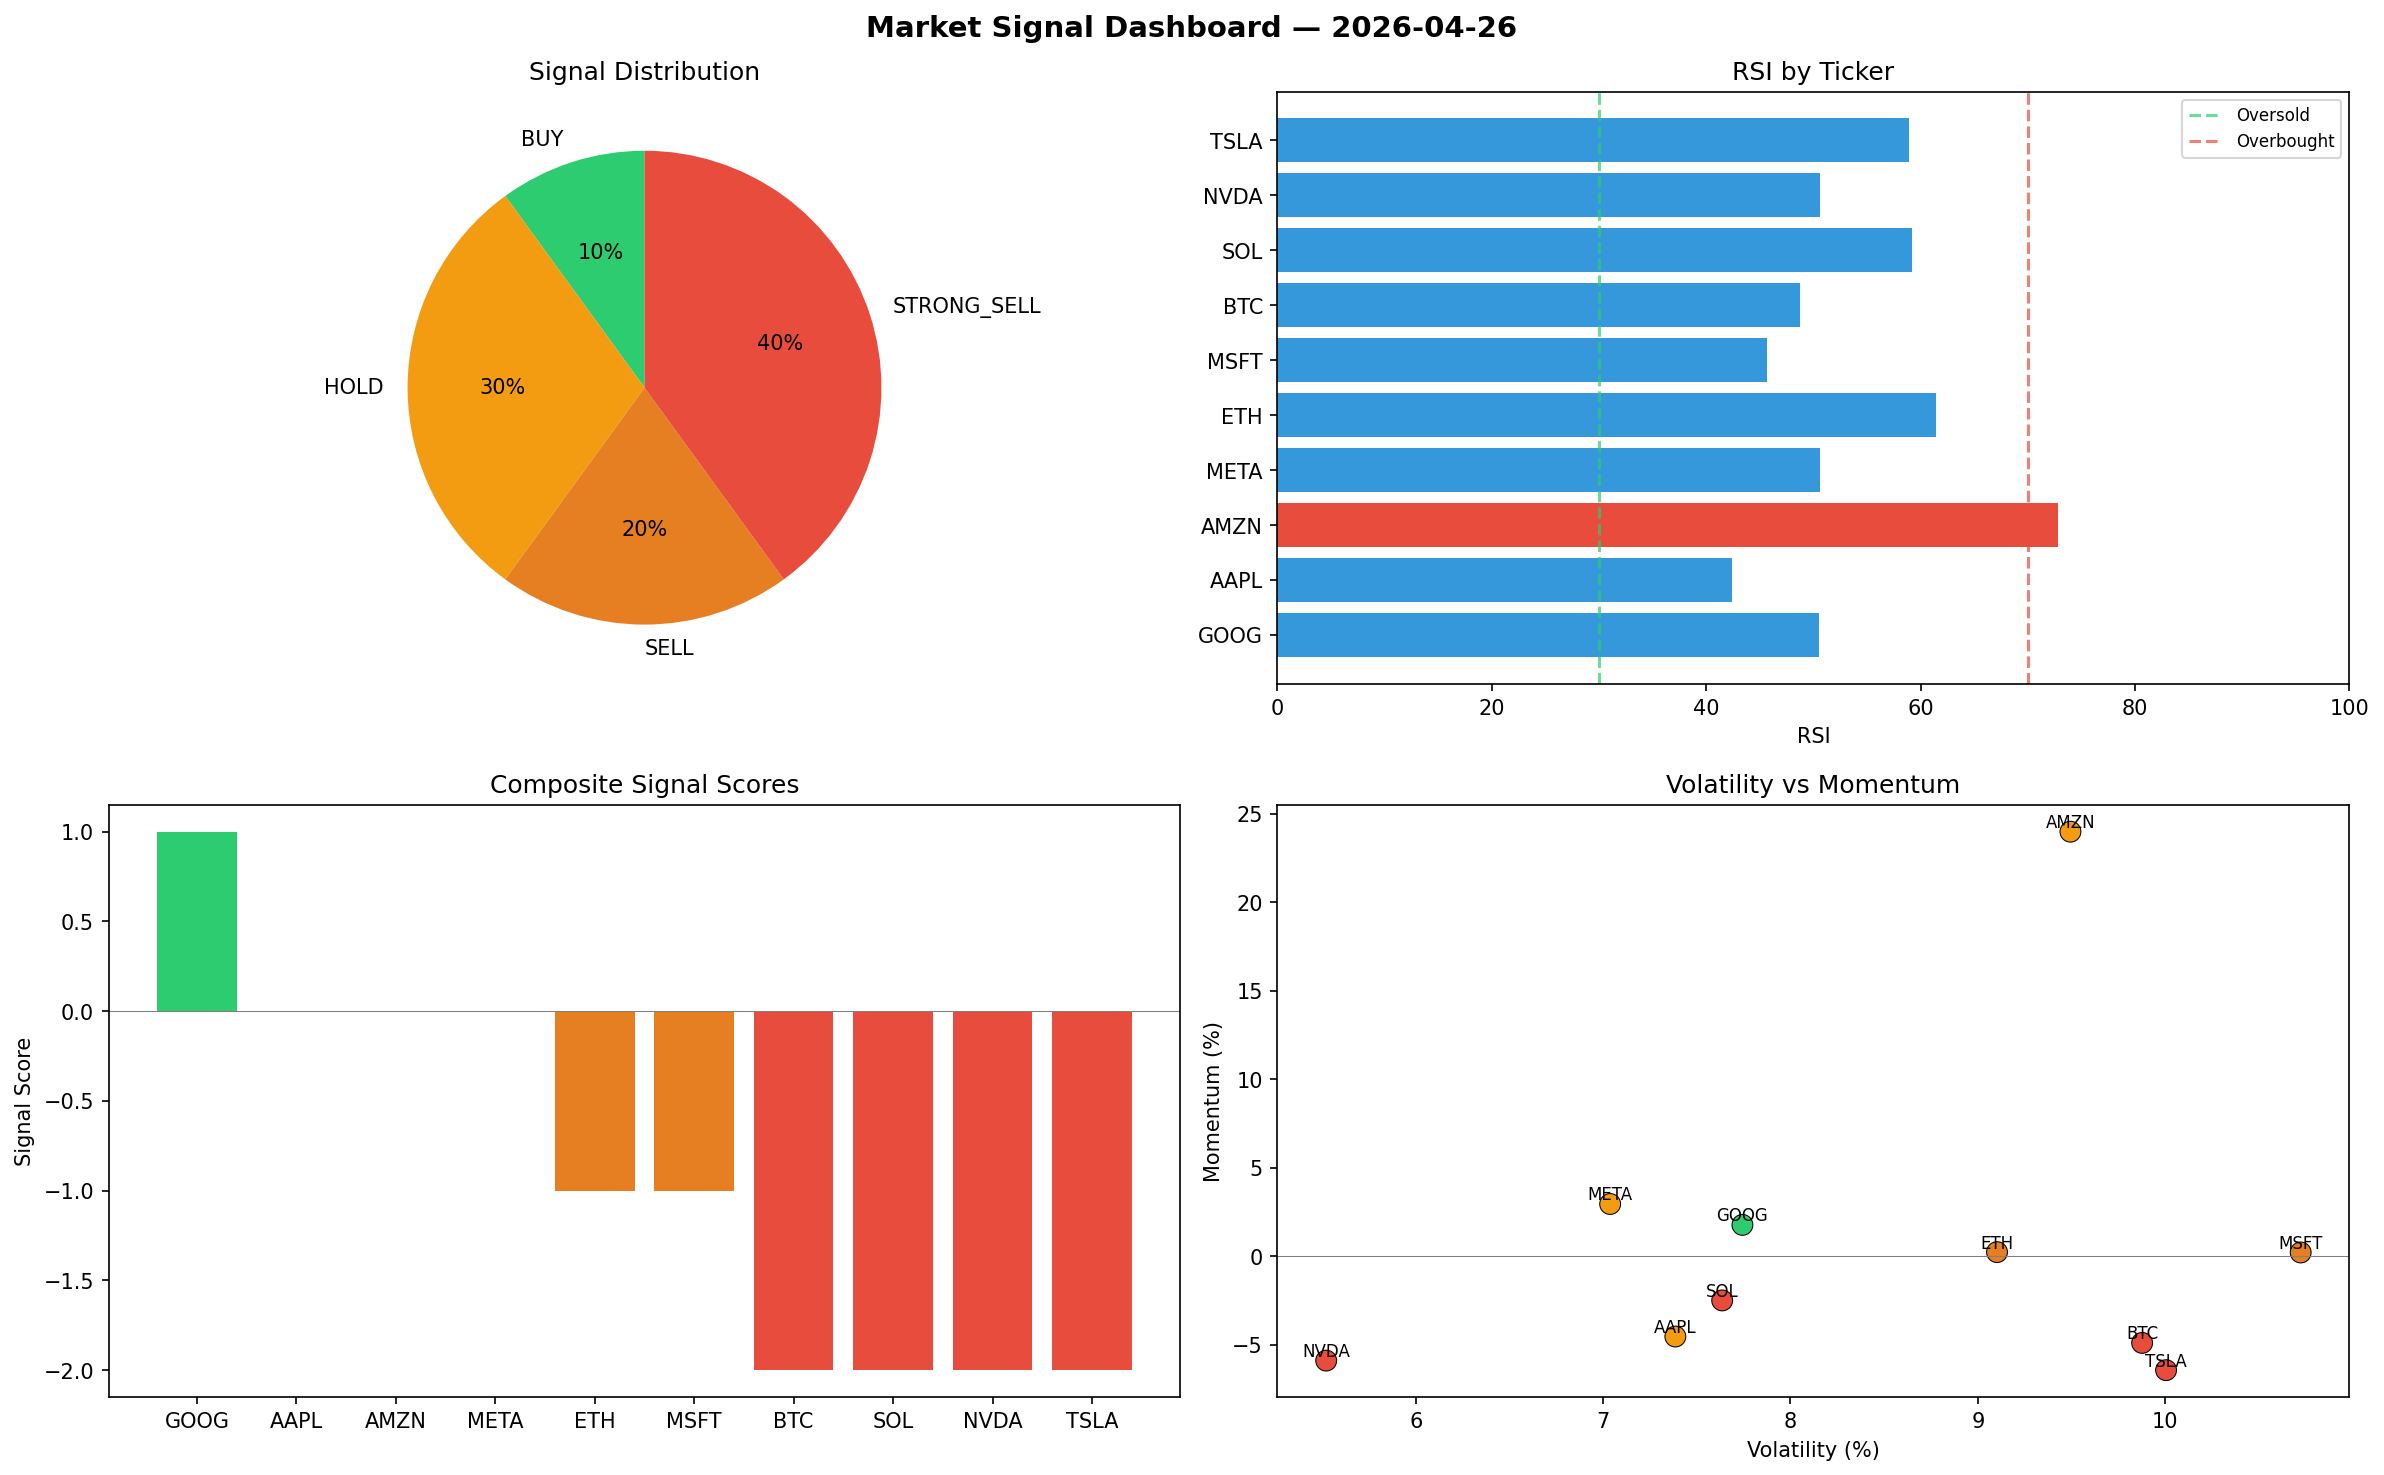
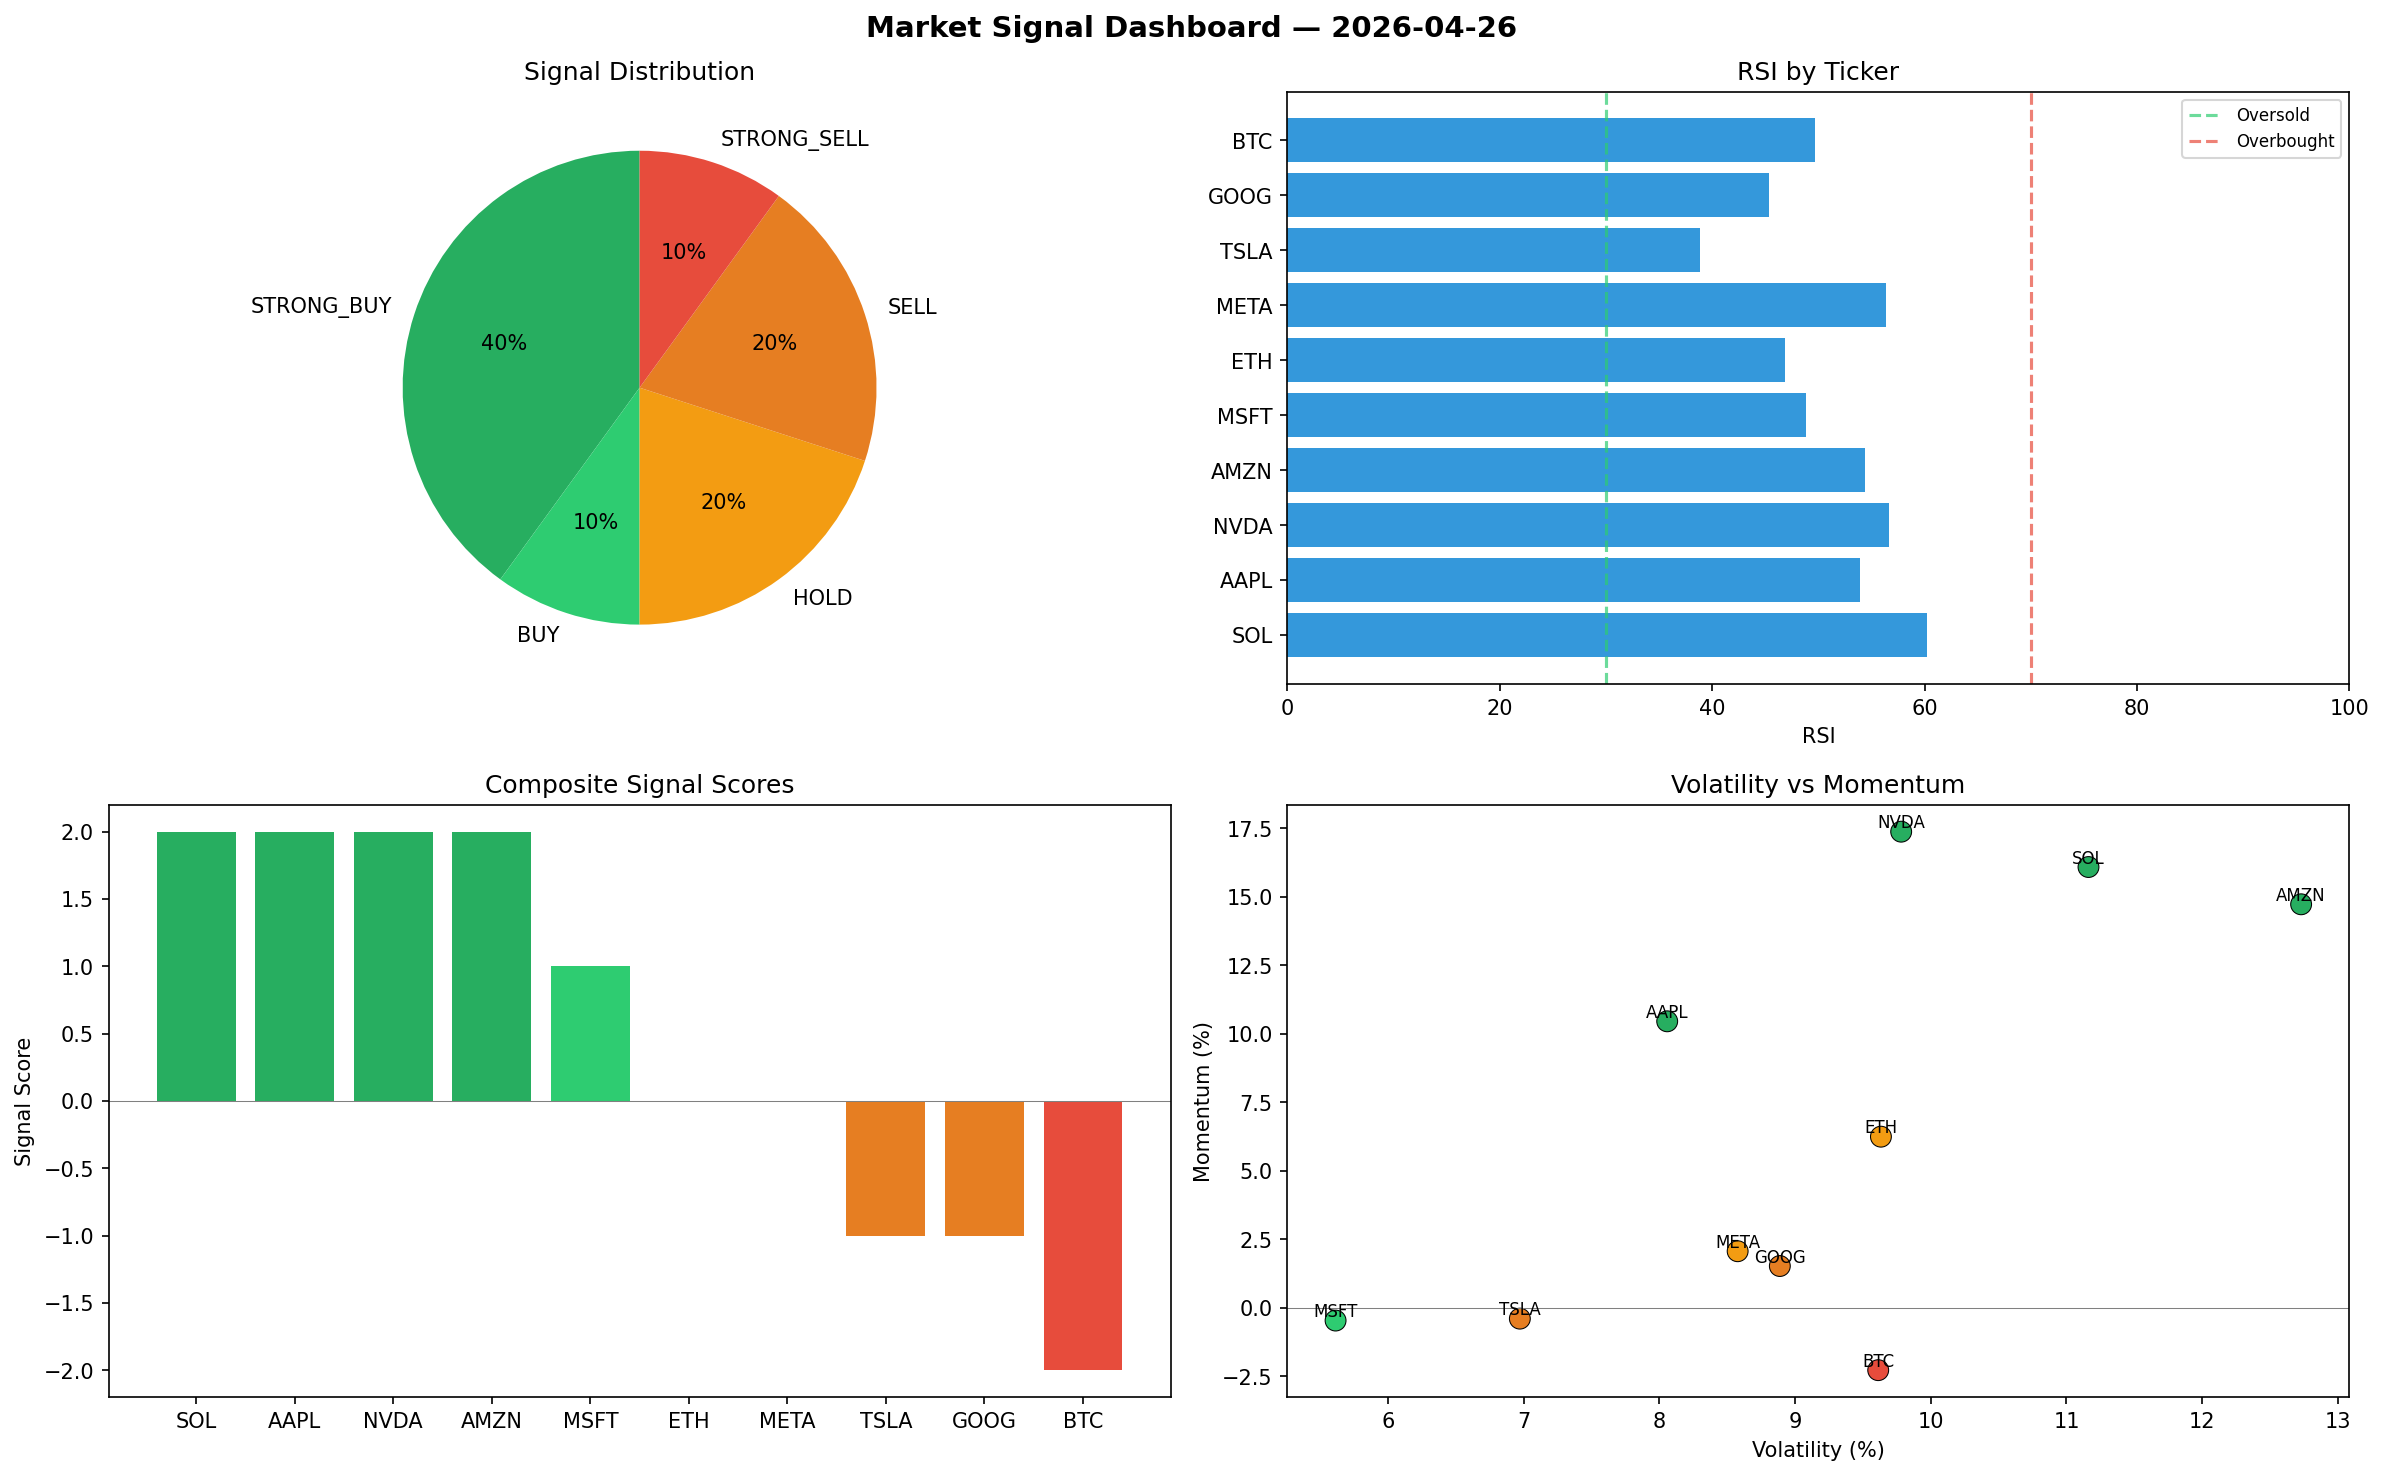
automated-bots: market signals 2026-04-26T09:28

diff --git a/logs/2026-04-26.md b/logs/2026-04-26.md
@@ -1,6 +1,6 @@
 # Market Signal Report — 2026-04-26
 
-**Run ID:** `3d1de9ecfb` | **Buy:** 1 | **Sell:** 6 | **Hold:** 3
+**Run ID:** `a00805009e` | **Buy:** 5 | **Sell:** 3 | **Hold:** 2
 
 ![Dashboard](2026-04-26_dashboard.png)
 
@@ -8,28 +8,28 @@
 
 | Ticker | Price | Signal | Score | RSI | Momentum | Confidence |
 |--------|-------|--------|-------|-----|----------|------------|
-| GOOG | $3454.68 | **BUY** | 1 | 50.52 | 0.0176 | 0.25 |
-| AAPL | $224.09 | **HOLD** | 0 | 42.4 | -0.0455 | 0.0 |
-| AMZN | $3737.56 | **HOLD** | 0 | 72.79 | 0.2398 | 0.0 |
-| META | $3528.91 | **HOLD** | 0 | 50.62 | 0.0294 | 0.0 |
-| ETH | $3807.5 | **SELL** | -1 | 61.44 | 0.0022 | 0.25 |
-| MSFT | $4180.86 | **SELL** | -1 | 45.69 | 0.002 | 0.25 |
-| BTC | $2834.0 | **STRONG_SELL** | -2 | 48.79 | -0.0491 | 0.5 |
-| SOL | $2562.06 | **STRONG_SELL** | -2 | 59.17 | -0.0251 | 0.5 |
-| NVDA | $4745.03 | **STRONG_SELL** | -2 | 50.57 | -0.0591 | 0.5 |
-| TSLA | $4574.47 | **STRONG_SELL** | -2 | 58.89 | -0.0645 | 0.5 |
+| SOL | $550.53 | **STRONG_BUY** | 2 | 60.27 | 0.1608 | 0.5 |
+| AAPL | $3195.87 | **STRONG_BUY** | 2 | 53.92 | 0.1045 | 0.5 |
+| NVDA | $4186.83 | **STRONG_BUY** | 2 | 56.65 | 0.1737 | 0.5 |
+| AMZN | $4621.38 | **STRONG_BUY** | 2 | 54.43 | 0.1472 | 0.5 |
+| MSFT | $4092.7 | **BUY** | 1 | 48.87 | -0.0047 | 0.25 |
+| ETH | $2952.13 | **HOLD** | 0 | 46.84 | 0.0624 | 0.0 |
+| META | $820.97 | **HOLD** | 0 | 56.34 | 0.0206 | 0.0 |
+| TSLA | $1187.46 | **SELL** | -1 | 38.83 | -0.004 | 0.25 |
+| GOOG | $2078.85 | **SELL** | -1 | 45.32 | 0.0152 | 0.25 |
+| BTC | $1527.34 | **STRONG_SELL** | -2 | 49.65 | -0.0228 | 0.5 |
 
 ## Delta vs Yesterday
 
 | Ticker | Today | Yesterday | Price Change | Signal Changed |
 |--------|-------|-----------|-------------|----------------|
-| GOOG | BUY | BUY | 📈 106.64% | — |
-| AAPL | HOLD | SELL | 📈 182.91% | ⚠ YES |
-| AMZN | HOLD | STRONG_BUY | 📈 13.09% | ⚠ YES |
-| META | HOLD | STRONG_SELL | 📈 120.35% | ⚠ YES |
-| ETH | SELL | SELL | 📈 64.93% | — |
-| MSFT | SELL | SELL | 📈 105.56% | — |
-| BTC | STRONG_SELL | HOLD | 📈 189.68% | ⚠ YES |
-| SOL | STRONG_SELL | STRONG_BUY | 📈 20.08% | ⚠ YES |
-| NVDA | STRONG_SELL | SELL | 📈 221.49% | ⚠ YES |
-| TSLA | STRONG_SELL | HOLD | 📈 280.99% | ⚠ YES |
+| SOL | STRONG_BUY | STRONG_BUY | 📉 -74.2% | — |
+| AAPL | STRONG_BUY | SELL | 📈 3934.68% | ⚠ YES |
+| NVDA | STRONG_BUY | SELL | 📈 183.67% | ⚠ YES |
+| AMZN | STRONG_BUY | STRONG_BUY | 📈 39.83% | — |
+| MSFT | BUY | SELL | 📈 101.23% | ⚠ YES |
+| ETH | HOLD | SELL | 📈 27.87% | ⚠ YES |
+| META | HOLD | STRONG_SELL | 📉 -48.74% | ⚠ YES |
+| TSLA | SELL | HOLD | 📉 -1.1% | ⚠ YES |
+| GOOG | SELL | BUY | 📈 24.35% | ⚠ YES |
+| BTC | STRONG_SELL | HOLD | 📈 56.12% | ⚠ YES |
